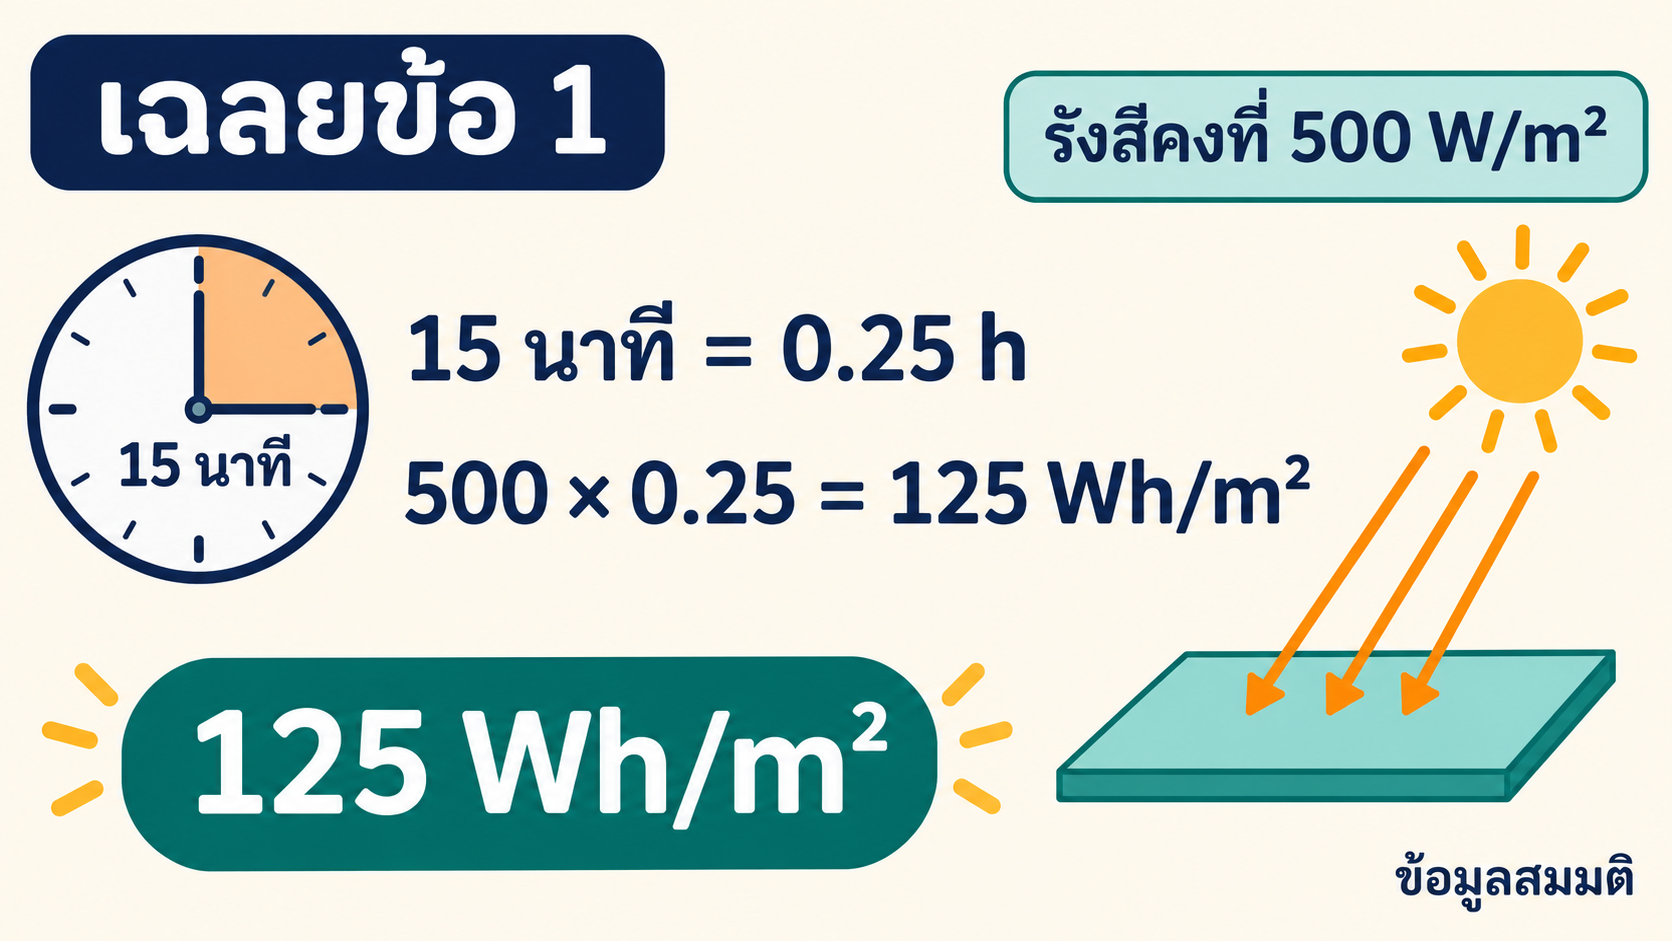
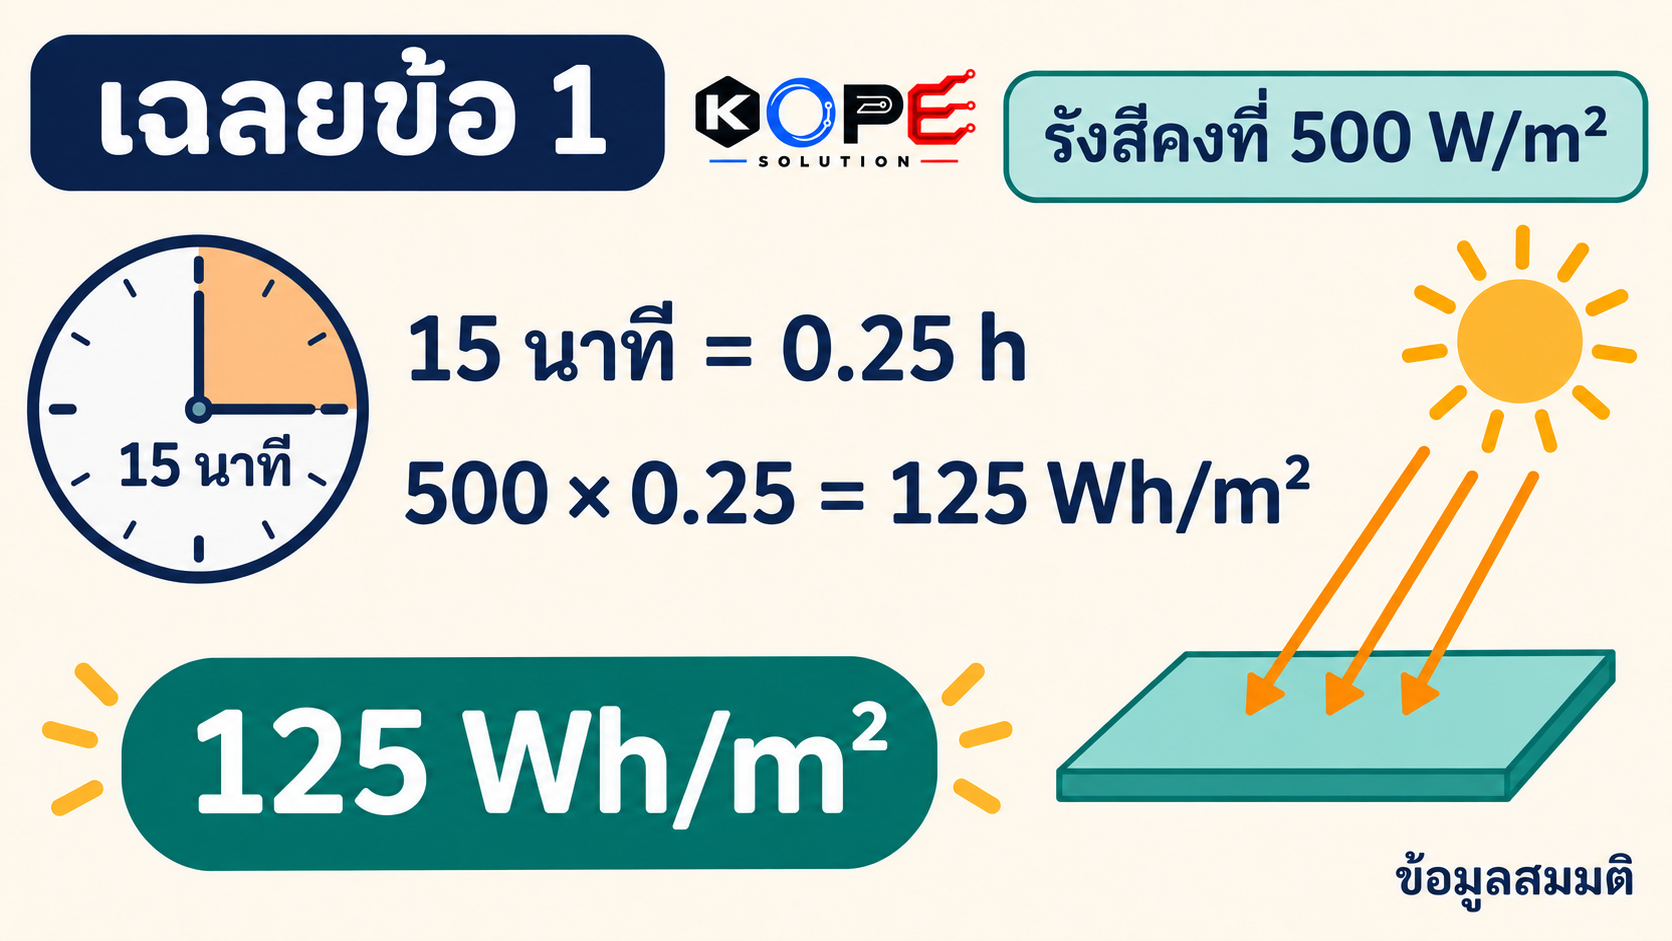
Add KOPE SOLUTION branding to original chapter one visuals

Changed region(s): [[0.4043, 0.0616, 0.5909, 0.1849], [0.8397, 0.9245, 0.9952, 0.9554], [0.0933, 0.2465, 0.1244, 0.2774]]

diff --git a/chapters/01/assets/README.md b/chapters/01/assets/README.md
@@ -10,8 +10,8 @@
 | [net-radiometer-nr01.jpg](net-radiometer-nr01.jpg) | ภาพถ่าย Hukseflux NR01 โดย Hukseflux, 800 × 600 px; [หน้าต้นฉบับ](https://commons.wikimedia.org/wiki/File:Hukseflux_netto_radiometer_nr01_photo.jpg) | เจ้าของผลงานเผยแพร่เป็น Public domain (PD-self) เก็บภาพต้นฉบับโดยไม่แก้ไข |
 | [pv-reference-cell.jpg](pv-reference-cell.jpg) | ภาพถ่าย PV reference cell โดย SerkanEmr, 2,000 × 1,994 px; [หน้าต้นฉบับ](https://commons.wikimedia.org/wiki/File:PV_reference_cell_mounted_in_plane_of_array_for_irradiance_measurement.jpg) | [CC BY-SA 4.0](https://creativecommons.org/licenses/by-sa/4.0/); ไม่แก้ไขภาพต้นฉบับ คงใบอนุญาตของภาพนี้แยกจากเนื้อหาโครงการ |
 | [srad-nrad-radiation-flow.png](srad-nrad-radiation-flow.png) | ภาพอธิบายหลักการ สร้างด้วยเครื่องมือ imagegen ภายใน Codex (built-in tool mode) | เป็นภาพสร้างด้วย AI ไม่ใช่ภาพถ่ายหรือแบบจำลองผลิตภัณฑ์จริง ตรวจชื่อ หน่วย และทิศลูกศรเทียบหลักการแล้ว |
-| [irradiance-vs-irradiation.png](irradiance-vs-irradiation.png) | กราฟสร้างจากตัวเลขสมมติด้วย Matplotlib, 1920 × 1080 px | รังสีคงที่ในแต่ละกรณี; แกนทั้งสองกราฟมีสเกลเดียวกัน: 800 × 0.5 = 400 × 1 = 400 Wh/m² |
-| [two-interval-energy.png](two-interval-energy.png) | กราฟสร้างจากตัวเลขสมมติด้วย Matplotlib, 1920 × 1080 px | รังสีคงที่ในแต่ละช่วง: 800 × 0.25 + 400 × 0.25 = 300 Wh/m² |
+| [irradiance-vs-irradiation.png](irradiance-vs-irradiation.png) | กราฟต้นฉบับสร้างจากตัวเลขสมมติด้วย Matplotlib; เพิ่มโลโก้ด้วย imagegen, ฉบับปัจจุบัน 1672 × 941 px | รังสีคงที่ในแต่ละกรณี; แกนทั้งสองกราฟมีสเกลเดียวกัน: 800 × 0.5 = 400 × 1 = 400 Wh/m² |
+| [two-interval-energy.png](two-interval-energy.png) | กราฟต้นฉบับสร้างจากตัวเลขสมมติด้วย Matplotlib; เพิ่มโลโก้ด้วย imagegen, ฉบับปัจจุบัน 1672 × 941 px | รังสีคงที่ในแต่ละช่วง: 800 × 0.25 + 400 × 0.25 = 300 Wh/m² |
 | [area-one-vs-two.png](area-one-vs-two.png) | ภาพสร้างด้วย imagegen | รังสีสม่ำเสมอบนระนาบเดียวกัน: 800 × 1 = 800 W และ 800 × 2 = 1,600 W |
 | [sensor-detector-types.png](sensor-detector-types.png) | ภาพสร้างด้วย imagegen | แสดงหลักการ ไม่ใช่ภาพตัดภายในรุ่นจริง: thermopile, silicon photodiode, PV reference cell |
 | [quiz-01-time.png](quiz-01-time.png) · [เฉลย](quiz-01-time-answer.png) | ภาพสร้างด้วย imagegen | ข้อมูลสมมติ: 500 × 15/60 = 125 Wh/m² |
@@ -20,6 +20,8 @@
 | [quiz-04-noon.png](quiz-04-noon.png) · [เฉลย](quiz-04-noon-answer.png) | ภาพสร้างด้วย imagegen | มีข้อมูลเฉพาะตอนเที่ยง เครื่องหมายคำถามหมายถึงไม่มีข้อมูล ไม่ใช่รังสีศูนย์ |
 
 ภาพหลักการ กราฟ และการ์ดโจทย์ที่โครงการสร้างเองใช้ [CC BY 4.0](../../../LICENSE) ตาม [ขอบเขตใบอนุญาต](../../../LICENSING.md) ภาพที่สร้างด้วย AI ใช้เครื่องมือ imagegen ภายใน Codex; ภาพพื้นที่เป็นภาพอธิบาย ไม่ใช้ขนาดพิกเซลแทนมาตรวัด
+
+ภาพที่โครงการสร้างเองทั้ง 12 ภาพแสดงโลโก้ **KOPE SOLUTION** เพื่อระบุผู้จัดทำ โดยใช้โลโก้แนวนอนจากไฟล์ที่ผู้จัดทำให้มา และเพิ่มด้วย imagegen ภายใน Codex เมื่อ 17 พฤศจิกายน 2026 ตรวจข้อความ หน่วย ตัวเลข และองค์ประกอบการสอนหลังเพิ่มโลโก้แล้ว ภาพถ่ายจากแหล่งภายนอกไม่ได้เพิ่มโลโก้โครงการและคงเครดิตเดิม
 
 เครดิตภาพถ่าย Hukseflux: “Hukseflux / Wikimedia Commons / Public domain” เครดิตภาพ PV reference cell: “SerkanEmr / Wikimedia Commons / CC BY-SA 4.0 / ไม่แก้ไขภาพ” พร้อมลิงก์หน้าต้นฉบับและใบอนุญาตตามตาราง
 

diff --git a/AGENTS.md b/AGENTS.md
@@ -21,3 +21,4 @@
 - ใช้ work/ สำหรับไฟล์ชั่วคราว อย่า commit credentials ข้อมูลส่วนบุคคล ไฟล์บันทึกเสียง/วิดีโอดิบ หรือไฟล์จากระบบอื่น
 - ไม่เปลี่ยนการตั้งค่า Git ระดับ global
 - ผู้จัดทำเลือก CC BY 4.0 สำหรับเนื้อหาและภาพที่โครงการสร้างเอง และ MIT สำหรับโค้ด ดูขอบเขตใน LICENSING.md รักษาเครดิตและสิทธิ์เดิมของภาพจากบุคคลอื่น ไม่เหมารวมภาพทั้งหมดเป็น CC BY 4.0
+- ใส่โลโก้ KOPE SOLUTION ที่ผู้จัดทำให้มาเฉพาะภาพที่โครงการสร้างเอง เลือกแบบให้เหมาะกับพื้นหลังและวางไม่ทับเนื้อหา ห้ามเพิ่มโลโก้โครงการบนภาพถ่ายหรือภาพอ้างอิงจากแหล่งภายนอก
